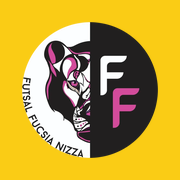
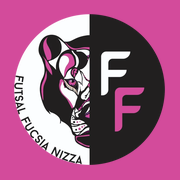
Add files via upload

diff --git a/index.html b/index.html
@@ -7,7 +7,7 @@
 <meta name="mobile-web-app-capable" content="yes">
 <meta name="apple-mobile-web-app-title" content="FF Match">
 <meta name="apple-mobile-web-app-status-bar-style" content="default">
-<meta name="theme-color" content="#facc15">
+<meta name="theme-color" content="#d34b9b">
 <link rel="manifest" href="manifest.webmanifest">
 <link rel="apple-touch-icon" href="icons/apple-touch-icon.png">
 <link rel="icon" type="image/png" href="icons/icon-192.png">
@@ -76,7 +76,7 @@ td+td{text-align:center;font-variant-numeric:tabular-nums}th+th{text-align:cente
 textarea{width:100%;height:200px;box-sizing:border-box;background:var(--card);color:var(--tx);border:1px solid var(--ln);border-radius:10px;padding:8px;font:13px ui-monospace,monospace;margin-top:8px}
 .two{display:flex;gap:8px;margin-top:10px}.two button{flex:1;padding:13px;border:1px solid var(--ln);border-radius:10px;background:var(--card)}
 .nm{padding:5px 8px 4px;gap:2px;min-height:62px;justify-content:space-between}.nm b{font-size:13.6px;line-height:1.1}.t{font-size:25px;line-height:1.1;font-weight:800}.lf.in .t{color:var(--ok)}.lf.out .t{color:var(--no)}.mt .vl{border-left:1px solid var(--ln)}.dl{display:block;width:20px;height:1px;background:var(--ln);margin:1px auto 5px}.pb{display:block;font-weight:800;color:var(--tx)}.tt{display:block;font-size:11px;line-height:1.1;color:var(--mu);font-weight:600;font-variant-numeric:tabular-nums}.nm{gap:1px}.mt td,.mt th{padding:3px 1px}.mt th{background:var(--bg);position:relative;z-index:3;box-shadow:0 1px 0 var(--ln)}.mt th.s1,.mt th.s2{position:sticky;z-index:4}.nm{min-height:54px;padding:6px 8px 5px 6px;justify-content:space-between;gap:0}.t{line-height:1}.mt td.s1{padding:3px 2px}.pk{flex:1;min-width:0;text-align:left;font:inherit;color:var(--tx);background:var(--card);border:1px solid var(--ln);border-radius:10px;padding:11px 26px 11px 11px;position:relative;overflow:hidden;text-overflow:ellipsis;white-space:nowrap}.pk::after{content:"\25BE";position:absolute;right:10px;color:var(--mu)}.pk.emp{color:var(--mu)}.pov{position:fixed;inset:0;background:rgba(0,0,0,.45);z-index:50;display:flex;align-items:flex-end;justify-content:center}.shl{background:var(--card);width:100%;max-width:560px;max-height:78vh;overflow:auto;border-radius:16px 16px 0 0;padding:4px 6px calc(10px + env(safe-area-inset-bottom,0px))}.shh{padding:10px 12px 6px;font-weight:700;color:var(--mu);font-size:16px}.po{display:block;width:100%;text-align:left;padding:9px 12px;border:0;border-bottom:1px solid var(--ln);background:none;font-size:16px;line-height:1.2}.po.sel{color:var(--act);font-weight:700}.mt td:not(.s1):not(.s2),.mt th:not(.s1):not(.s2){min-width:46px}.mt .s2{width:64px;min-width:64px;padding:3px}.sg{padding:3px 3px;font-size:13px}.yc{top:auto;bottom:7px;right:24px;width:17px;height:24px;border-radius:3px}.rc{top:auto;bottom:7px;right:3px;width:17px;height:24px;border-radius:3px}.ac{flex:none;min-width:0;width:30px;height:44px;padding:0;border:0;border-radius:5px;box-shadow:0 1px 3px rgba(0,0,0,.3)}.ac.ay{background:var(--yl)}.ac.ar{background:var(--no)}.tob{display:flex;gap:8px;width:100%}.tob button{flex:1;min-width:0;padding:9px 6px;border:1px solid var(--ac);border-radius:10px;background:var(--card);color:var(--act);font-weight:700;font-size:14px;line-height:1.2}.tob button.used{border-color:var(--ln);background:var(--bg);color:var(--mu);font-weight:500;opacity:.75}.tob button.cf{opacity:1}.bn.pa{background:var(--ac);color:var(--acx)}@keyframes pl{0%{box-shadow:0 0 0 0 rgba(202,138,4,.75)}100%{box-shadow:0 0 0 14px rgba(202,138,4,0)}}.run.go{animation:pl 1.1s ease-out infinite;font-size:17px;padding:13px 20px}.run.go.st{order:9;flex:0 0 100%;font-size:21px;padding:16px}.run.go:disabled{animation:none}.lf.out{background:color-mix(in srgb,var(--nobg) 40%,transparent);border-color:color-mix(in srgb,var(--no) 30%,transparent)}.lf.out .t{color:color-mix(in srgb,var(--no) 65%,var(--mu))}.t.l4{font-size:20px;letter-spacing:-.3px}
-.mt .lf .nm{display:grid;grid-template-rows:1fr 24px;align-items:center;padding:0 8px 7px 6px;gap:0}.mt .lf .nm b{line-height:1.3;align-self:center}.mt .lf .nm .t{line-height:1;align-self:center}.nm b{white-space:nowrap;overflow:hidden;display:block}#spl{position:fixed;inset:0;z-index:9999;background:#facc15;transition:opacity .35s}#spl.out{opacity:0}#spl .lg{position:absolute;left:50%;top:50%;width:min(46vw,220px);aspect-ratio:1;transform:translate(-50%,-50%);border-radius:50%;background:#fff url() center/100% no-repeat;box-shadow:0 8px 28px rgba(0,0,0,.28)}#spl .tx{position:absolute;left:0;right:0;top:calc(50% + min(23vw,110px) + 30px);text-align:center;color:#111}#spl b{display:block;font-size:30px;letter-spacing:.5px}#spl span{display:block;font-size:21px;opacity:.9;margin-top:4px}#spl .vv{position:absolute;left:0;right:0;bottom:calc(env(safe-area-inset-bottom,0px) + 22px);text-align:center;color:#111;opacity:.75;font-size:12px}.po.ag{font-style:italic}.po.ot{color:var(--act);font-weight:400}.axm{color:var(--no);font-size:14px;font-weight:600;margin-top:6px}.po.sk{color:var(--mu);text-align:center}.po.dl2{color:var(--no);text-align:center;font-weight:700}
+.mt .lf .nm{display:grid;grid-template-rows:1fr 24px;align-items:center;padding:0 8px 7px 6px;gap:0}.mt .lf .nm b{line-height:1.3;align-self:center}.mt .lf .nm .t{line-height:1;align-self:center}.nm b{white-space:nowrap;overflow:hidden;display:block}#spl{position:fixed;inset:0;z-index:9999;background:#d34b9b;transition:opacity .35s}#spl.out{opacity:0}#spl .lg{position:absolute;left:50%;top:50%;width:min(46vw,220px);aspect-ratio:1;transform:translate(-50%,-50%);border-radius:50%;background:#fff url() center/100% no-repeat;box-shadow:0 8px 28px rgba(0,0,0,.28)}#spl .tx{position:absolute;left:0;right:0;top:calc(50% + min(23vw,110px) + 30px);text-align:center;color:#fff}#spl b{display:block;font-size:30px;letter-spacing:.5px}#spl span{display:block;font-size:21px;opacity:.9;margin-top:4px}#spl .vv{position:absolute;left:0;right:0;bottom:calc(env(safe-area-inset-bottom,0px) + 22px);text-align:center;color:#fff;opacity:.75;font-size:12px}.po.ag{font-style:italic}.po.ot{color:var(--act);font-weight:400}.axm{color:var(--no);font-size:14px;font-weight:600;margin-top:6px}.po.sk{color:var(--mu);text-align:center}.po.dl2{color:var(--no);text-align:center;font-weight:700}
 
 .xgs{display:grid;grid-template-columns:1fr 1fr;gap:8px;margin:8px 0 0}.xgs>div{min-width:0;border:1px solid var(--ln);border-radius:10px;padding:8px 10px}.xgs b{display:block;font-size:13px;overflow:hidden;text-overflow:ellipsis;white-space:nowrap;color:var(--mu);font-weight:600}.xgs .v{display:block;font-size:20px;font-weight:800;line-height:1.15;font-variant-numeric:tabular-nums}.xgs small{display:block;color:var(--mu);font-size:12px}
 .chip.op{border-color:var(--ln);color:var(--mu)}.xdt{margin-top:10px;font-size:14px}.xdt summary{cursor:pointer;color:var(--mu);padding:6px 0}.row input.xgi{flex:none;width:84px;text-align:right}
@@ -91,7 +91,7 @@ textarea{width:100%;height:200px;box-sizing:border-box;background:var(--card);co
 .xsg button:first-child{border-left:0;color:var(--mu)}
 .xsg button.on{background:var(--ac);color:var(--acx);font-weight:700}
 .xsg button.dft.on{background:var(--ln);color:var(--tx)}
-:root{--okb:#15803d;--wnb:#b45309}
+:root{--okb:#15803d;--wnb:#b02f7c}
 .sco{display:inline-block;margin-left:8px;padding:1px 8px;border-radius:10px;background:var(--card);border:1px solid var(--ln);font-size:22px;vertical-align:3px}
 .qpad{height:118px}
 .qbar{position:fixed;left:0;right:0;bottom:0;z-index:40;background:var(--bg);border-top:1px solid var(--ln);box-shadow:0 -4px 14px rgba(0,0,0,.08);padding:8px max(10px,env(safe-area-inset-right,0px)) calc(8px + env(safe-area-inset-bottom,0px)) max(10px,env(safe-area-inset-left,0px))}
@@ -164,7 +164,7 @@ textarea{width:100%;height:200px;box-sizing:border-box;background:var(--card);co
 <div id="app"></div>
 <script>
[1 lines of base64/hex data omitted]
-const VER="3.1",K="minutaggio-futsal-v2",$=s=>document.querySelector(s);
+const VER="3.2",K="minutaggio-futsal-v2",$=s=>document.querySelector(s);
 const esc=t=>String(t).replace(/[&<>"]/g,c=>({"&":"&amp;","<":"&lt;",">":"&gt;",'"':"&quot;"}[c]));
 const RK="mf-rosa",CK="mf-conv";
 function convSlots(ro){const sl=Array(12).fill(-1);try{const c=JSON.parse(localStorage.getItem(CK));if(Array.isArray(c))c.slice(0,12).forEach((n,k)=>{const i=n?ro.indexOf(n):-1;if(i>=0&&!sl.includes(i))sl[k]=i})}catch(e){}return sl}
@@ -232,7 +232,7 @@ function gpH(){if(GP===null||!S.goals[GP]||!live()&&S.ph!=="break"&&S.ph!=="ask"
  const c=gc("c")+(pd&&g.s==="c"?1:0),t=gc("t")+(pd&&g.s==="t"?1:0);
  const ft=pd?`<div class="sfb"><button class="sfx dl" onclick="gDel(${j},1)">Annulla goal</button><button class="sfo${miss.length?" wn":""}" onclick="gOk(${j})">${miss.length?"Conferma senza "+miss.join(", "):"✓ Conferma goal"}<small>${esc(sum)||"&nbsp;"}</small></button></div>`
   :`<div class="sfb"><button class="sfx dl" onclick="gDel(${j},${isNew?1:0})">${isNew?"Annulla goal":"Elimina"}</button><button class="sfo" onclick="GP=null;render()">Fatto<small>${esc(sum)||"&nbsp;"}</small></button></div>`;
- return `<div class="pov" ${pd?"":`onclick="GP=null;render()"`}><div class="shl xs qs" onclick="event.stopPropagation()"><div class="shh">⚽ Goal ${esc(mi?myN():oppN())} <span>${tag} ${fmt(g.t)} · ${esc(hn())} ${c}–${t} ${esc(an())}</span></div>${cur==="ag"?"":xgSvg(cnt,sx?sx.z:null,"gZ("+j+",")}${pg}${cur==="ag"||zsp?"":`<div class="xlb">Com’era il tiro? <small>· tocca solo se diverso da normale</small></div>`+kH(ks,"gK("+j+",")}${ft}</div></div>`}
+ return `<div class="pov" ${pd?"":`onclick="GP=null;render()"`}><div class="shl xs qs" data-k="g${g.id}" onclick="event.stopPropagation()"><div class="shh">⚽ Goal ${esc(mi?myN():oppN())} <span>${tag} ${fmt(g.t)} · ${esc(hn())} ${c}–${t} ${esc(an())}</span></div>${cur==="ag"?"":xgSvg(cnt,sx?sx.z:null,"gZ("+j+",")}${pg}${cur==="ag"||zsp?"":`<div class="xlb">Com’era il tiro? <small>· tocca solo se diverso da normale</small></div>`+kH(ks,"gK("+j+",")}${ft}</div></div>`}
 function gOk(j){const g=S.goals[j];if(!g)return;delete g.p;GP=null;GC=-1;GN=false;GA=-1;go()}
 function gcH(j,g){const mi=g.s===mineS(),sx=xgG(g),ag=!!g.ag,tag=g.h===3?"ST":g.h+"T",W=[],R=(l,v,w)=>`<div class="xrc${w?" w":""}"><span>${l}</span><b>${w?"⚠ ":""}${v}</b></div>`;
   let h=`<div class="xrh">⚽ Goal ${mi?"segnato":"subito"} · ${esc(mi?myN():oppN())}<small>${fmt(g.t)} · ${tag}</small></div>`;
@@ -339,7 +339,7 @@ function xpH(){if(!XP)return"";const mi=XP.s===mineS(),T=XP.s==="c"?hn():an(),ed
  const sum=[mi?(XP.p?xgSn(XP.p):XP.p===""?"giocatore N.D.":""):"",z?z.n:"",...(z&&!z.sp?xkN(XP.k):[])].filter(Boolean).join(" · ");
  const ft=ed?`<div class="sfb"><button class="sfx dl" onclick="xgDel(${XP.ed})">Elimina</button><button class="sfo" onclick="xgClose()">Fatto<small>${esc(sum)||"&nbsp;"}</small></button></div>`
   :`<div class="sfb"><button class="sfx" onclick="xgClose()">Annulla</button><button class="sfo${miss.length?" wn":""}" onclick="xgSave()">${miss.length?(CF()?"Conferma":"Salva")+" senza "+miss.join(" e "):CF()?"✓ Conferma tiro":"Salva tiro"}<small>${esc(sum)||"&nbsp;"}</small></button></div>`;
- return `<div class="pov" ${ed?`onclick="xgClose()"`:""}><div class="shl xs qs" onclick="event.stopPropagation()"><div class="shh">${ed?"Modifica tiro":"Tiro"} ${esc(T)} <span>${XP.h===3?"ST":XP.h+"T"} ${fmt(XP.t)}</span></div>${xgSvg(cnt,XP.z,"xpZ(")}${pg}${z&&z.sp?"":`<div class="xlb">Com’era il tiro? <small>· tocca solo se diverso da normale</small></div>`+kH(XP.k,"xpK(")}${ft}</div></div>`}
+ return `<div class="pov" ${ed?`onclick="xgClose()"`:""}><div class="shl xs qs" data-k="x${ed?XP.ed:"n"}" onclick="event.stopPropagation()"><div class="shh">${ed?"Modifica tiro":"Tiro"} ${esc(T)} <span>${XP.h===3?"ST":XP.h+"T"} ${fmt(XP.t)}</span></div>${xgSvg(cnt,XP.z,"xpZ(")}${pg}${z&&z.sp?"":`<div class="xlb">Com’era il tiro? <small>· tocca solo se diverso da normale</small></div>`+kH(XP.k,"xpK(")}${ft}</div></div>`}
 function xcH(T,mi){const z=xgZ().find(q=>q.id===XP.z);if(!z){XP.rc=0;return ""}
   const v=xgCalc(z.v,XP.k,z.id),ks=z.sp?[]:xkN(XP.k),tag=XP.h===3?"ST":XP.h+"T",R=(l,x,w)=>`<div class="xrc${w?" w":""}"><span>${l}</span><b>${w?"⚠ ":""}${x}</b></div>`,nop=mi&&!XP.p;
   let h=`<div class="xrh">Tiro ${mi?"fatto":"subito"} · ${esc(T)}<small>${fmt(XP.t)} · ${tag}</small></div>`;
@@ -572,11 +572,11 @@ async function hAll(){const h=hLoad();if(!h.length)return;const old=S;let P=[];S
  const o={versione_app:"v"+VER,esportato:ds,rosa:(S.roster||[]).map(r=>(r.n||"").trim()).filter(Boolean),portieri:gkL(),partite:P},blob=new Blob([JSON.stringify(o,null,1)],{type:"text/plain"});
  try{if(await deliver({f:new File([blob],"FucsiaNizza_storico_"+ds+".txt",{type:"text/plain"}),blob,tx:""})==="s"){HALL=true;render()}}catch(e){}}
 function render(){if(SWP)return;
- shown=stat();const sc0=$(".sc"),keep=sc0?sc0.scrollLeft:0;const v=($("#advn")||{}).value||"";
- $("#app").innerHTML=(S.ph==="setup"?setupH()+pkH():S.ph==="end"?sumH():matchH())+shWarnH()+`<p class="ver">FUCSIA NIZZA Match Analysis \u2013 v3.1 xG</p>`;
+ shown=stat();const sc0=$(".sc"),keep=sc0?sc0.scrollLeft:0,q0=$(".qs"),qk=q0?q0.dataset.k:null,qt=q0?q0.scrollTop:0;const v=($("#advn")||{}).value||"";
+ $("#app").innerHTML=(S.ph==="setup"?setupH()+pkH():S.ph==="end"?sumH():matchH())+shWarnH()+`<p class="ver">FUCSIA NIZZA Match Analysis \u2013 v3.2 xG</p>`;
  document.body.style.overflow=(PK!==null&&S.ph==="setup"&&!S.edR)?"hidden":"";
  if($("#advn"))$("#advn").value=v;
- const sc1=$(".sc");if(sc1)sc1.scrollLeft=keep;syncH();setBh();if(S.ph==="end")showRep();
+ const sc1=$(".sc");if(sc1)sc1.scrollLeft=keep;{const q1=$(".qs");if(q1&&qk&&q1.dataset.k===qk)q1.scrollTop=qt}syncH();setBh();if(S.ph==="end")showRep();
 }
 setInterval(()=>{const ae=document.activeElement;if(stat()!==shown&&!(ae&&ae.id==="notes")){render();return}if(!live())return;const c=$("#clk");if(c)c.textContent=fmt(clock());
  document.querySelectorAll("[data-bc]").forEach(e=>{e.textContent=bench(S.players[e.dataset.bc])});document.querySelectorAll("[data-p]").forEach(e=>{const v=stint(S.players[e.dataset.p]);e.textContent=v;e.classList.toggle("l4",v.length>4)});document.querySelectorAll("[data-pt]").forEach(e=>{e.textContent=fs(played(S.players[e.dataset.pt]))});

diff --git a/sw.js b/sw.js
@@ -1,5 +1,5 @@
 // Cambia il numero ad ogni nuova versione dell'app per forzare l'aggiornamento della cache
-const CACHE = "ff-match-v3.1";
+const CACHE = "ff-match-v3.2";
 const FILES = ["./", "index.html", "manifest.webmanifest", "icons/icon-192.png", "icons/icon-512.png", "icons/apple-touch-icon.png"];
 self.addEventListener("install", e => { e.waitUntil(caches.open(CACHE).then(c => c.addAll(FILES)).then(() => self.skipWaiting())); });
 self.addEventListener("activate", e => { e.waitUntil(caches.keys().then(k => Promise.all(k.filter(n => n !== CACHE).map(n => caches.delete(n)))).then(() => self.clients.claim())); });
